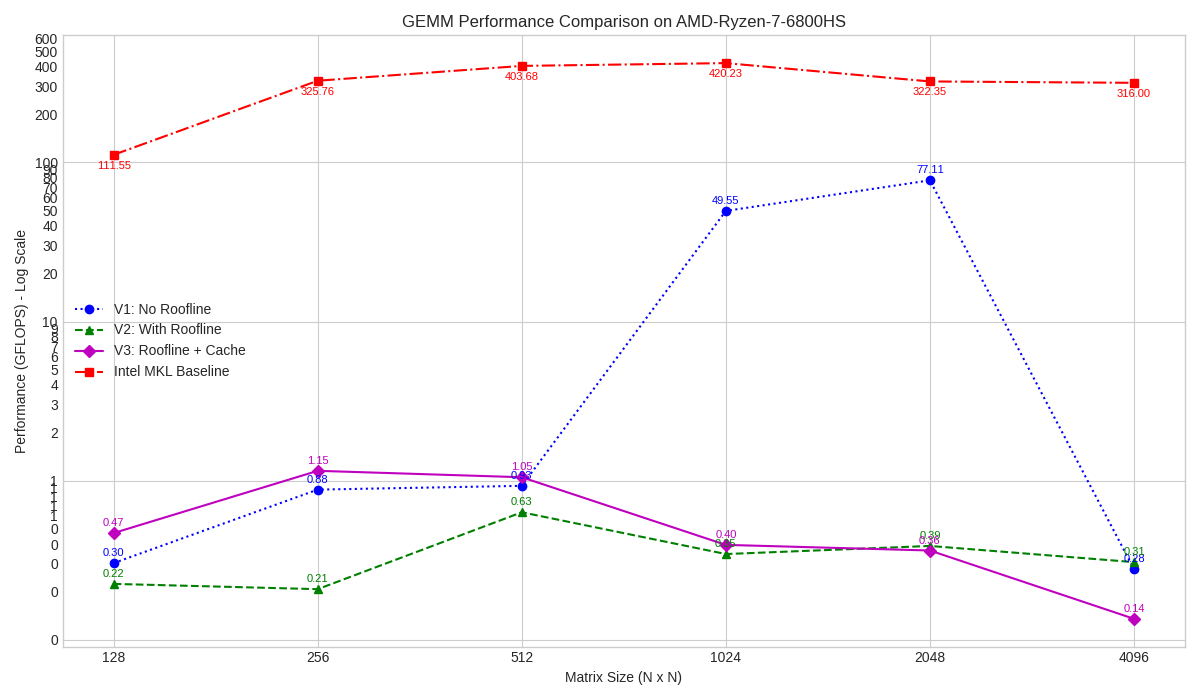
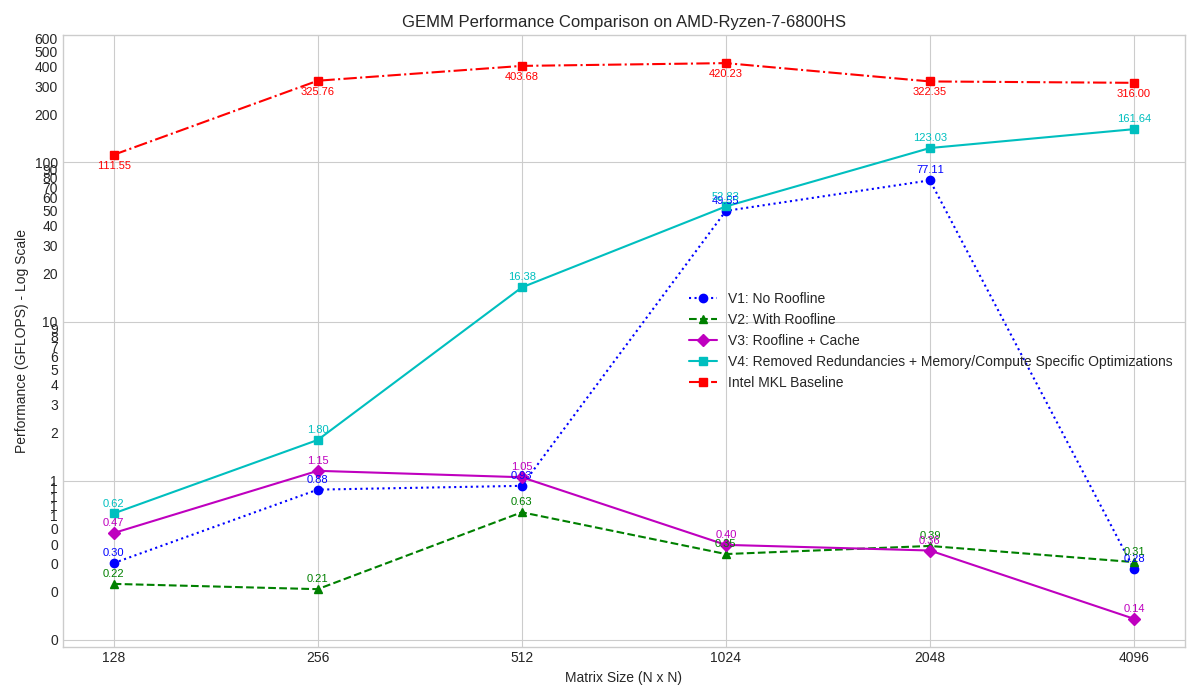
plot latest

diff --git a/benchmarking/plot_amd.py b/benchmarking/plot_amd.py
@@ -21,6 +21,7 @@ def plot_gflops_from_results(cpu_model_dir: str):
     perf_v1 = {}
     perf_v2 = {}
     perf_v3 = {}
+    perf_v4 = {}
 
     filename_pattern = re.compile(r'^(\d+)-(\d+\.\d+)\.cpp$')
 
@@ -41,8 +42,10 @@ def plot_gflops_from_results(cpu_model_dir: str):
                         perf_v2[matrix_size] = gflops
                     elif version == '3':
                         perf_v3[matrix_size] = gflops
+                    elif version == '4':
+                        perf_v4[matrix_size] = gflops
 
-    if not perf_v1 and not perf_v2 and not perf_v3:
+    if not perf_v1 and not perf_v2 and not perf_v3 and not perf_v4:
         print("No valid LLM data found to plot. Check the directory structure and filenames.")
         return
 
@@ -55,6 +58,7 @@ def plot_gflops_from_results(cpu_model_dir: str):
     matrix_sizes_v1, gflops_v1 = get_sorted_plot_data(perf_v1)
     matrix_sizes_v2, gflops_v2 = get_sorted_plot_data(perf_v2)
     matrix_sizes_v3, gflops_v3 = get_sorted_plot_data(perf_v3)
+    matrix_sizes_v4, gflops_v4 = get_sorted_plot_data(perf_v4)
 
     # --- Intel MKL Baseline Data ---
     mkl_matrix_sizes = [128, 256, 512, 1024, 2048, 4096]
@@ -68,6 +72,7 @@ def plot_gflops_from_results(cpu_model_dir: str):
     plt.plot(matrix_sizes_v1, gflops_v1, marker='o', linestyle=':', color='b', label='V1: No Roofline')
     plt.plot(matrix_sizes_v2, gflops_v2, marker='^', linestyle='--', color='g', label='V2: With Roofline')
     plt.plot(matrix_sizes_v3, gflops_v3, marker='D', linestyle='-', color='m', label='V3: Roofline + Cache')
+    plt.plot(matrix_sizes_v4, gflops_v4, marker='s', linestyle='-', color='c', label='V4: Removed Redundancies + Memory/Compute Specific Optimizations')
     plt.plot(mkl_matrix_sizes, mkl_gflops_values, marker='s', linestyle='-.', color='r', label='Intel MKL Baseline')
 
     # --- AXIS SCALING AND FORMATTING ---
@@ -110,6 +115,10 @@ def plot_gflops_from_results(cpu_model_dir: str):
     # V3 labels
     for i, txt in enumerate(gflops_v3):
         plt.annotate(f'{txt:.2f}', (matrix_sizes_v3[i], gflops_v3[i]), textcoords="offset points", xytext=text_offset_above, ha='center', color='m', fontsize=8)
+
+    # V4 labels
+    for i, txt in enumerate(gflops_v4):
+        plt.annotate(f'{txt:.2f}', (matrix_sizes_v4[i], gflops_v4[i]), textcoords="offset points", xytext=text_offset_above, ha='center', color='c', fontsize=8)
 
     # MKL labels
     for i, txt in enumerate(mkl_gflops_values):
